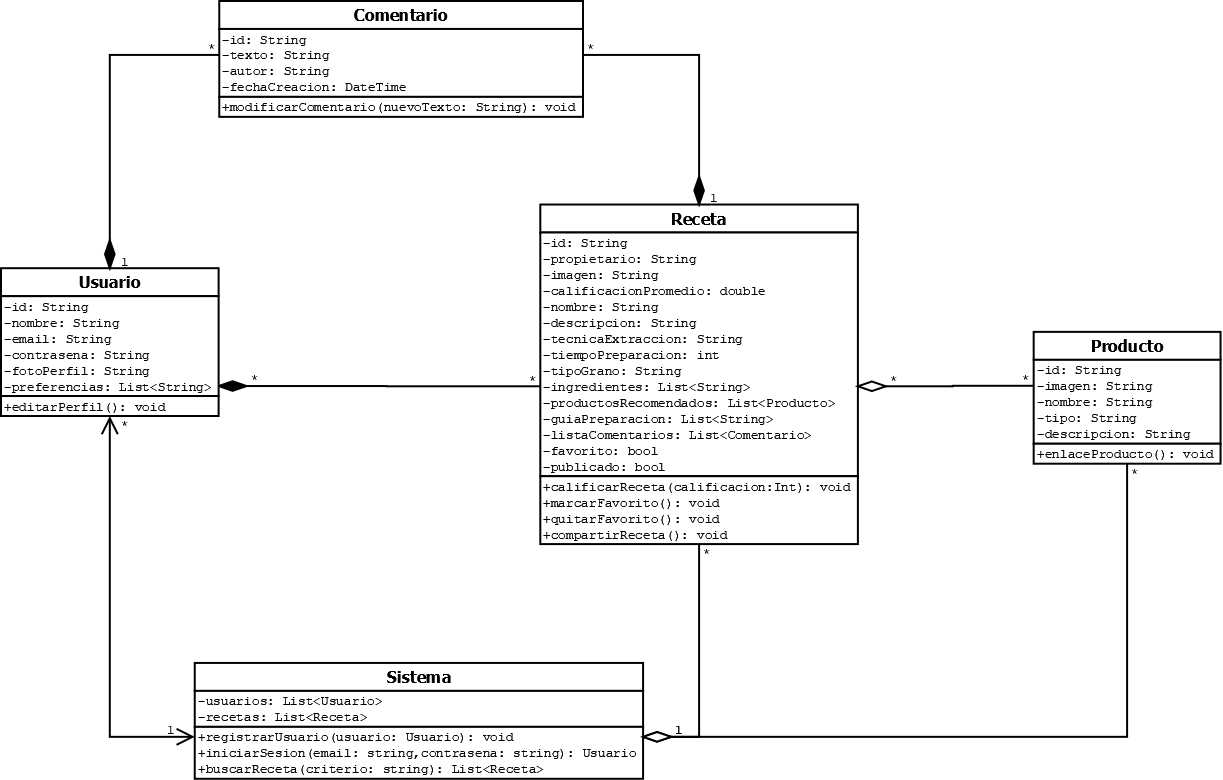
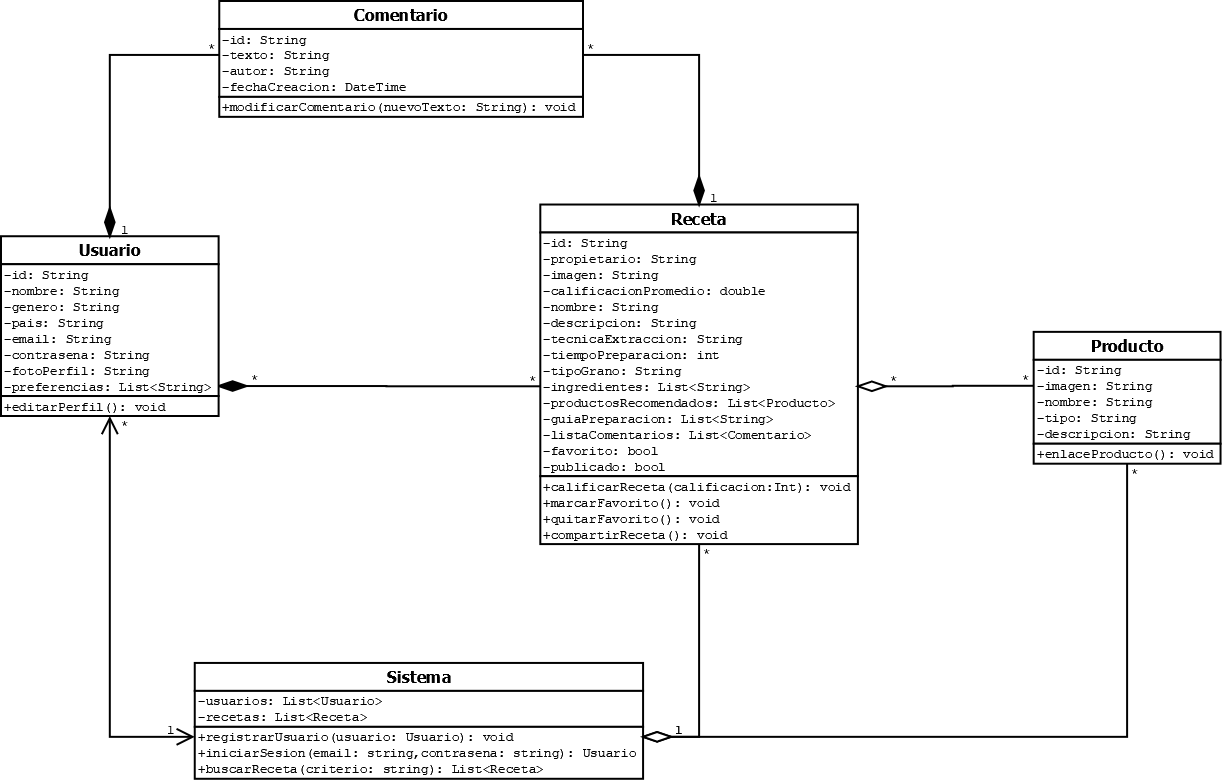
Implementación Basica de Perfil

Changed region(s): [[0.0, 0.2769, 0.1864, 0.4308]]

diff --git a/lib/pages/perfil_page.dart b/lib/pages/perfil_page.dart
@@ -1,6 +1,7 @@
 import 'package:flutter/material.dart';
+import '/models/usuario.dart';
+import 'perfil_detail_page.dart'; // Importar la nueva pantalla
 
-// Página Perfil
 class PerfilPage extends StatefulWidget {
   const PerfilPage({super.key, required this.title});
 
@@ -11,39 +12,79 @@ class PerfilPage extends StatefulWidget {
 }
 
 class _PerfilPageState extends State<PerfilPage> {
-  int _counter = 0;
-
-  void _incrementCounter() {
-    setState(() {
-      _counter++;
-    });
-  }
+  final Usuario _usuario = Usuario(
+    id: '1',
+    nombre: 'Eduardo Cabezas',
+    genero: 'Masculino',
+    pais: 'Chile',
+    email: 'eduardoc@example.com',
+    contrasena: 'password123',
+    fotoPerfil: 'assets/icons/perfil_icon.png',
+    preferencias: ['Arábica', 'Máquina de espresso', 'Hojas de Menta Fresca'],
+  );
 
   @override
   Widget build(BuildContext context) {
     return Scaffold(
       body: Container(
-        color: const Color(0xFFCD966C), // Color de fondo
-        child: Center(
-          child: Column(
-            mainAxisAlignment: MainAxisAlignment.center,
-            children: <Widget>[
-              const Text(
-                'You have pushed the button this many times on Perfil Page:',
-                style: TextStyle(color: Colors.white), // Color blanco texto
+        color: const Color(0xFFCD966C),
+        padding: const EdgeInsets.all(16.0),
+        child: Column(
+          crossAxisAlignment: CrossAxisAlignment.center,
+          children: [
+            CircleAvatar(
+              radius: 50,
+              backgroundImage: AssetImage(_usuario.fotoPerfil),
+            ),
+            const SizedBox(height: 16),
+            Text(
+              _usuario.nombre,
+              style: const TextStyle(
+                fontSize: 24,
+                fontWeight: FontWeight.bold,
+                color: Colors.white,
               ),
-              Text(
-                '$_counter',
-                style: Theme.of(context).textTheme.headlineMedium?.copyWith(color: Colors.white), // Color blanco texto
+            ),
+            const SizedBox(height: 8),
+            Text(
+              _usuario.email,
+              style: const TextStyle(
+                fontSize: 16,
+                color: Colors.white70,
               ),
-            ],
-          ),
+            ),
+            const SizedBox(height: 16),
+            Row(
+              mainAxisAlignment: MainAxisAlignment.center,
+              children: [
+                const Icon(Icons.location_on, color: Colors.white),
+                const SizedBox(width: 8),
+                Text(
+                  _usuario.pais,
+                  style: const TextStyle(color: Colors.white, fontSize: 16),
+                ),
+              ],
+            ),
+            const SizedBox(height: 16),
+            ElevatedButton.icon(
+              onPressed: () {
+                // Navegar a la nueva pantalla de detalles
+                Navigator.push(
+                  context,
+                  MaterialPageRoute(builder: (context) => PerfilDetailPage(usuario: _usuario)),
+                );
+              },
+              icon: const Icon(Icons.edit, color: Colors.white),
+              label: const Text(
+                'Editar Perfil',
+                style: TextStyle(color: Colors.white),
+              ),
+              style: ElevatedButton.styleFrom(
+                backgroundColor: const Color(0xFF8D4925),
+              ),
+            ),
+          ],
         ),
-      ),
-      floatingActionButton: FloatingActionButton(
-        onPressed: _incrementCounter,
-        tooltip: 'Increment',
-        child: const Icon(Icons.add),
       ),
     );
   }

diff --git a/lib/pages/perfil_detail_page.dart b/lib/pages/perfil_detail_page.dart
@@ -1,0 +1,84 @@
+import 'package:flutter/material.dart';
+import '/models/usuario.dart';
+
+class PerfilDetailPage extends StatelessWidget {
+  final Usuario usuario;
+
+  const PerfilDetailPage({super.key, required this.usuario});
+
+  @override
+  Widget build(BuildContext context) {
+    return Scaffold(
+      appBar: AppBar(
+        title: const Text('Detalles del Perfil'),
+        backgroundColor: const Color(0xFF8D4925), // Color de fondo de la AppBar
+        foregroundColor: Colors.white, // Color del texto en la AppBar
+      ),
+      body: Container(
+        color: const Color(0xFFCD966C), // Color de fondo
+        padding: const EdgeInsets.all(16.0),
+        child: ListView( // Usar ListView para manejar el contenido
+          children: [
+            // Mostrar la información del usuario
+            Text(
+              'Nombre: ${usuario.nombre}',
+              style: const TextStyle(fontSize: 18, color: Colors.white),
+            ),
+            const SizedBox(height: 8),
+            Text(
+              'Género: ${usuario.genero}',
+              style: const TextStyle(fontSize: 18, color: Colors.white),
+            ),
+            const SizedBox(height: 8),
+            Text(
+              'País: ${usuario.pais}',
+              style: const TextStyle(fontSize: 18, color: Colors.white),
+            ),
+            const SizedBox(height: 8),
+            Text(
+              'Email: ${usuario.email}',
+              style: const TextStyle(fontSize: 18, color: Colors.white),
+            ),
+            const SizedBox(height: 8),
+            Text(
+              'Contraseña: ${usuario.contrasena}',
+              style: const TextStyle(fontSize: 18, color: Colors.white),
+            ),
+            const SizedBox(height: 16),
+
+            // Mostrar la lista de preferencias
+            const Text(
+              'Preferencias:',
+              style: TextStyle(fontSize: 18, color: Colors.white),
+            ),
+            const SizedBox(height: 8),
+            for (String preferencia in usuario.preferencias)
+              Text(
+                '• $preferencia',
+                style: const TextStyle(fontSize: 16, color: Colors.white),
+              ),
+            const SizedBox(height: 16),
+
+            // Botón para guardar cambios
+            Center( // Centrar el botón en la pantalla
+              child: SizedBox(
+                width: 200, // Ancho personalizado para el botón
+                child: ElevatedButton(
+                  onPressed: () {
+                    usuario.editarPerfil(context);
+                    Navigator.pop(context); // Volver a la página anterior
+                  },
+                  child: const Text('Guardar cambios'),
+                  style: ElevatedButton.styleFrom(
+                    backgroundColor: const Color(0xFF8D4925), // Color marrón para el botón
+                    foregroundColor: Colors.white, // Texto en blanco
+                  ),
+                ),
+              ),
+            ),
+          ],
+        ),
+      ),
+    );
+  }
+}

diff --git a/lib/models/usuario.dart b/lib/models/usuario.dart
@@ -1,0 +1,50 @@
+import 'package:flutter/material.dart';
+
+// Clase Usuario
+class Usuario {
+  final String _id; 
+  final String _nombre;
+  final String _genero; 
+  final String _pais;
+  final String _email;
+  final String _contrasena;
+  final String _fotoPerfil;
+  final List<String> _preferencias;
+
+  Usuario({
+    required String id, 
+    required String nombre,
+    required String genero, 
+    required String pais,
+    required String email,
+    required String contrasena,
+    required String fotoPerfil,
+    List<String>? preferencias,
+  })  : _id = id,
+        _nombre = nombre,
+        _genero = genero,
+        _pais = pais,
+        _email = email,
+        _contrasena = contrasena,
+        _fotoPerfil = fotoPerfil,
+        _preferencias = preferencias ?? [];
+
+  // Getters
+  String get id => _id;
+  String get nombre => _nombre;
+  String get genero => _genero;
+  String get pais => _pais;
+  String get email => _email;
+  String get contrasena => _contrasena;
+  String get fotoPerfil => _fotoPerfil;
+  List<String> get preferencias => _preferencias;
+
+  // Mostrar mensaje pequeño de que el usuario edito su perfil
+  void editarPerfil(BuildContext context) {
+    const snackBar = SnackBar(
+      content: Text('Cambios guardados'),
+      duration: Duration(seconds: 2),
+    );
+    ScaffoldMessenger.of(context).showSnackBar(snackBar);
+  }
+}

diff --git a/lib/pages/receta_detail_page.dart b/lib/pages/receta_detail_page.dart
@@ -72,7 +72,6 @@ class _RecetaDetailPageState extends State<RecetaDetailPage> {
                   ),
                 ),
                 // Botón de comentarios
-                // Modifica el botón de comentarios en RecetaDetailPage
                 ElevatedButton(
                   onPressed: () {
                     // Navegar a la página de comentarios
@@ -113,10 +112,8 @@ class _RecetaDetailPageState extends State<RecetaDetailPage> {
                 IconButton(
                   icon: const Icon(Icons.share, color: Colors.white),
                   onPressed: () {
-                    // Acción al compartir la receta
-                    ScaffoldMessenger.of(context).showSnackBar(
-                      const SnackBar(content: Text('Receta compartida')),
-                    );
+                    // Llama al método compartirReceta de la clase Receta
+                    widget.receta.compartirReceta(context);
                   },
                 ),
               ],
